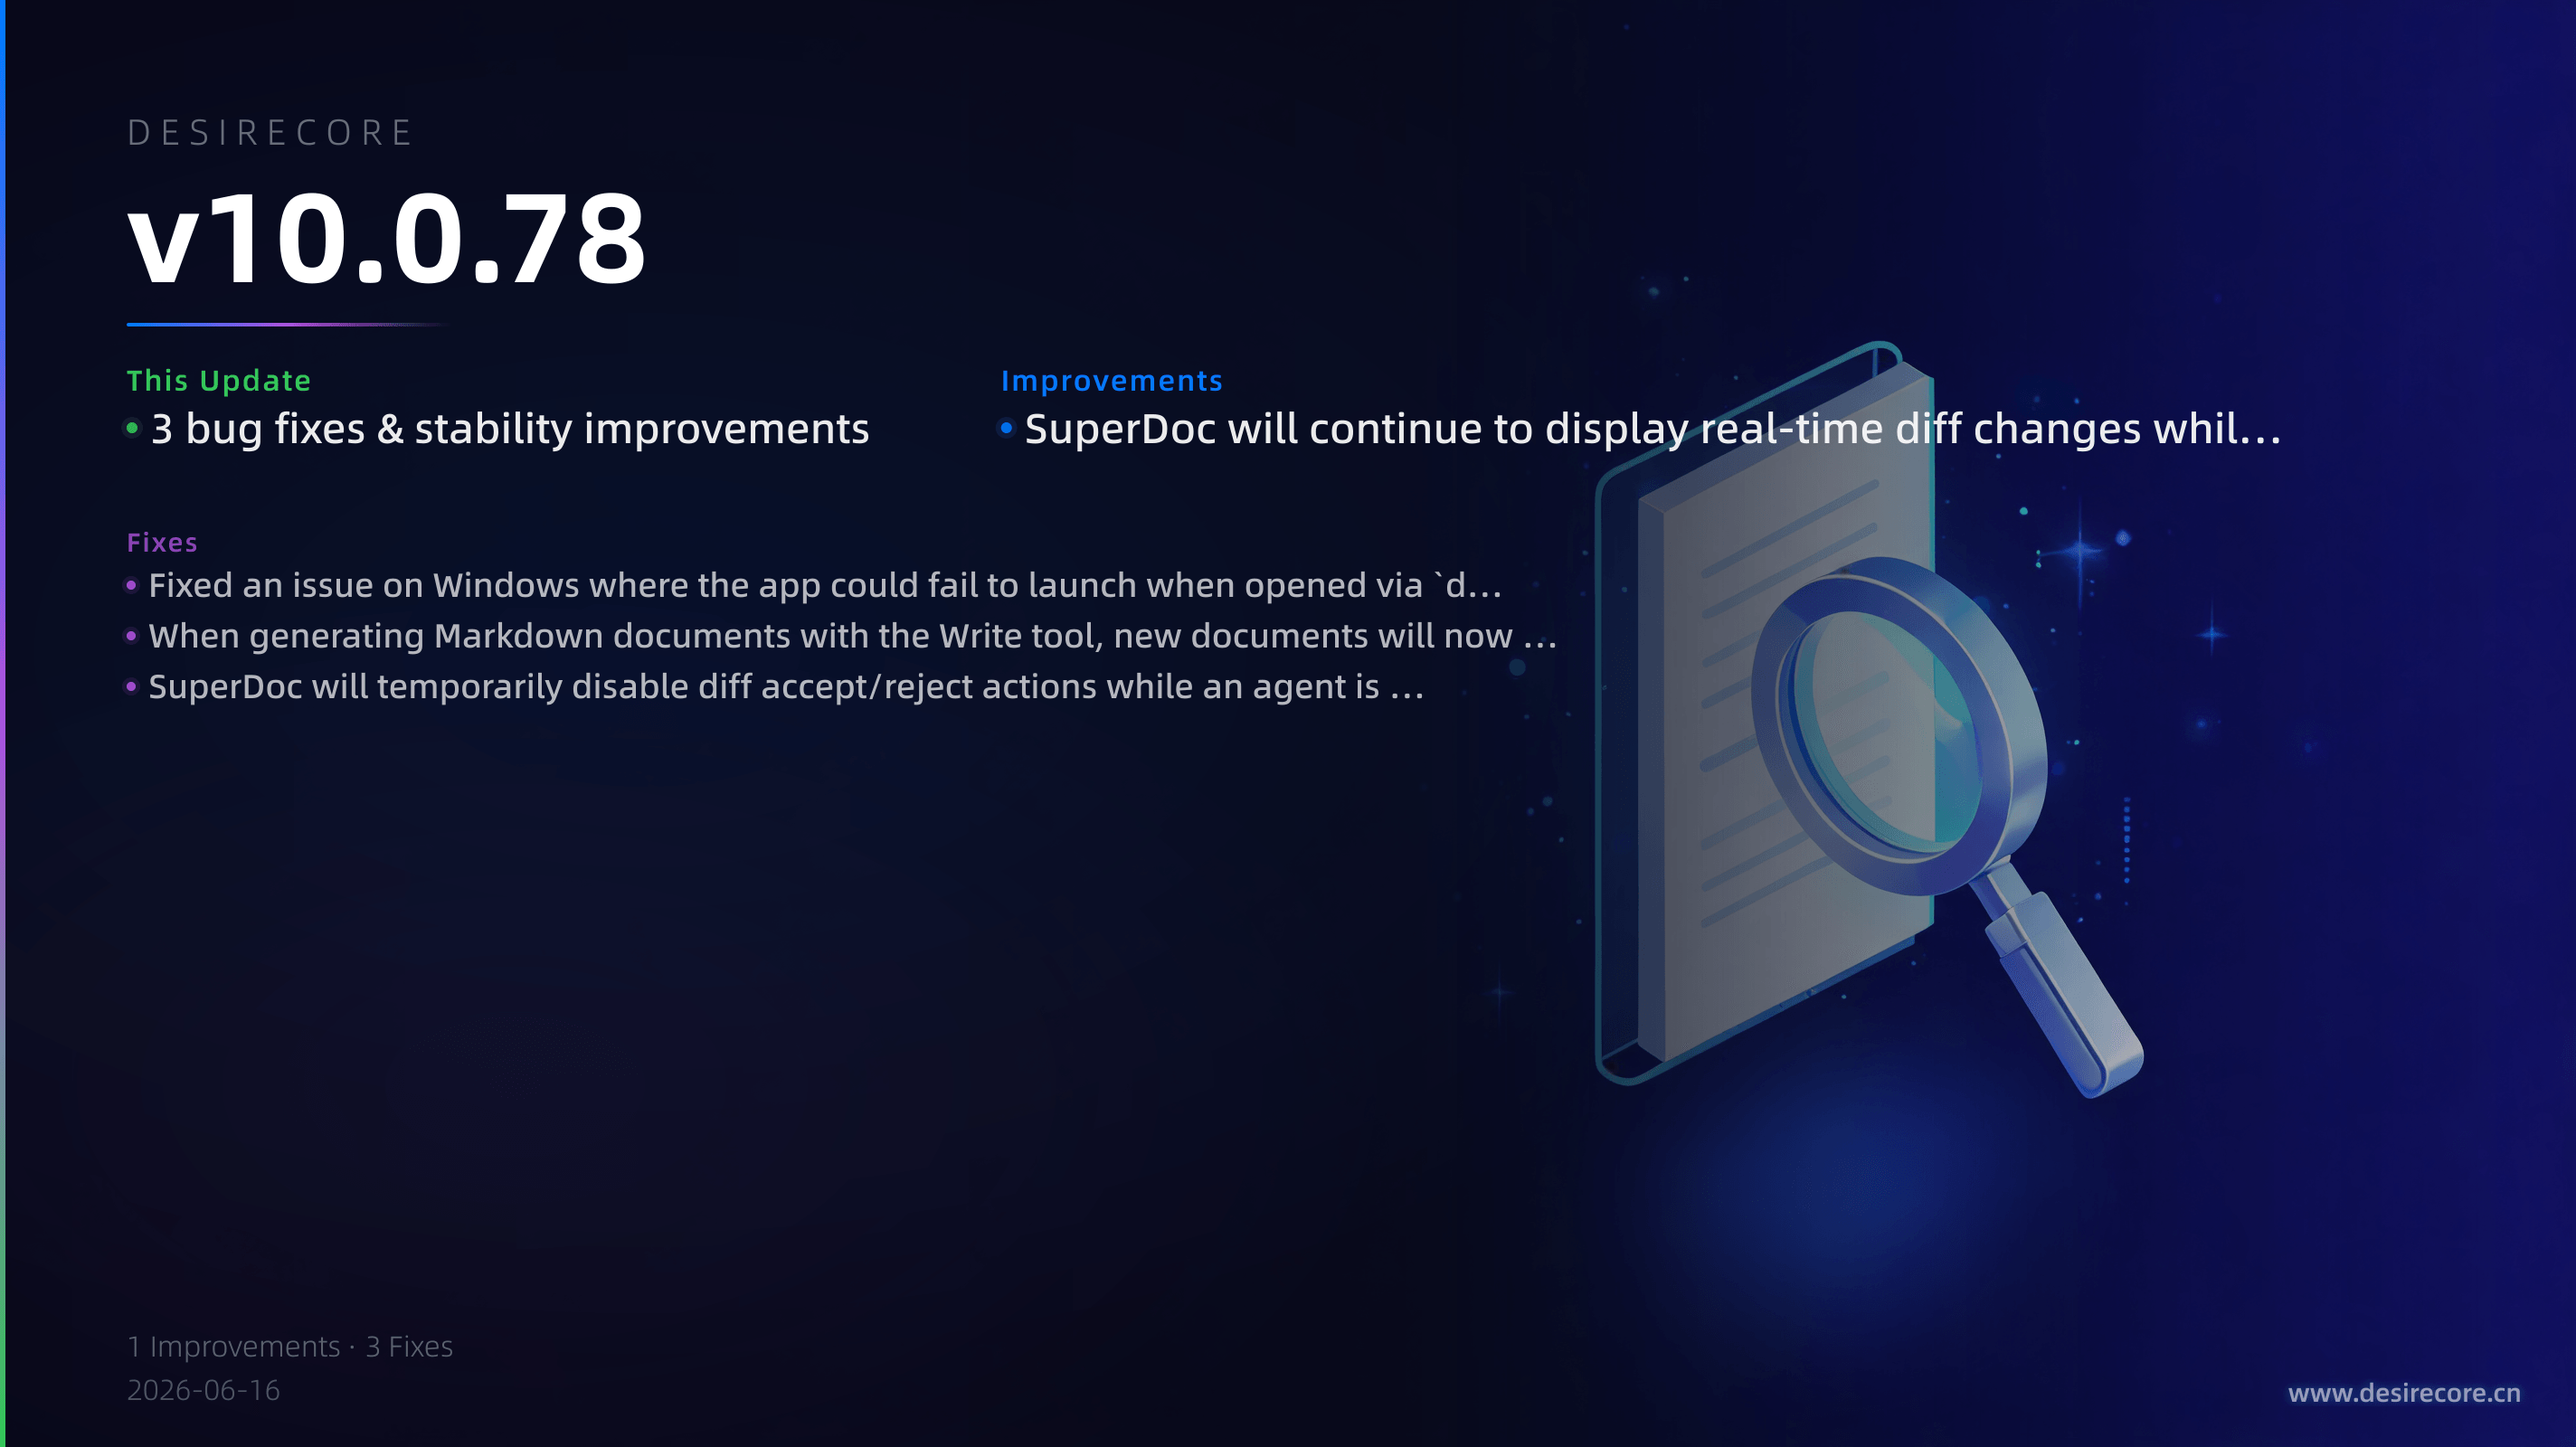
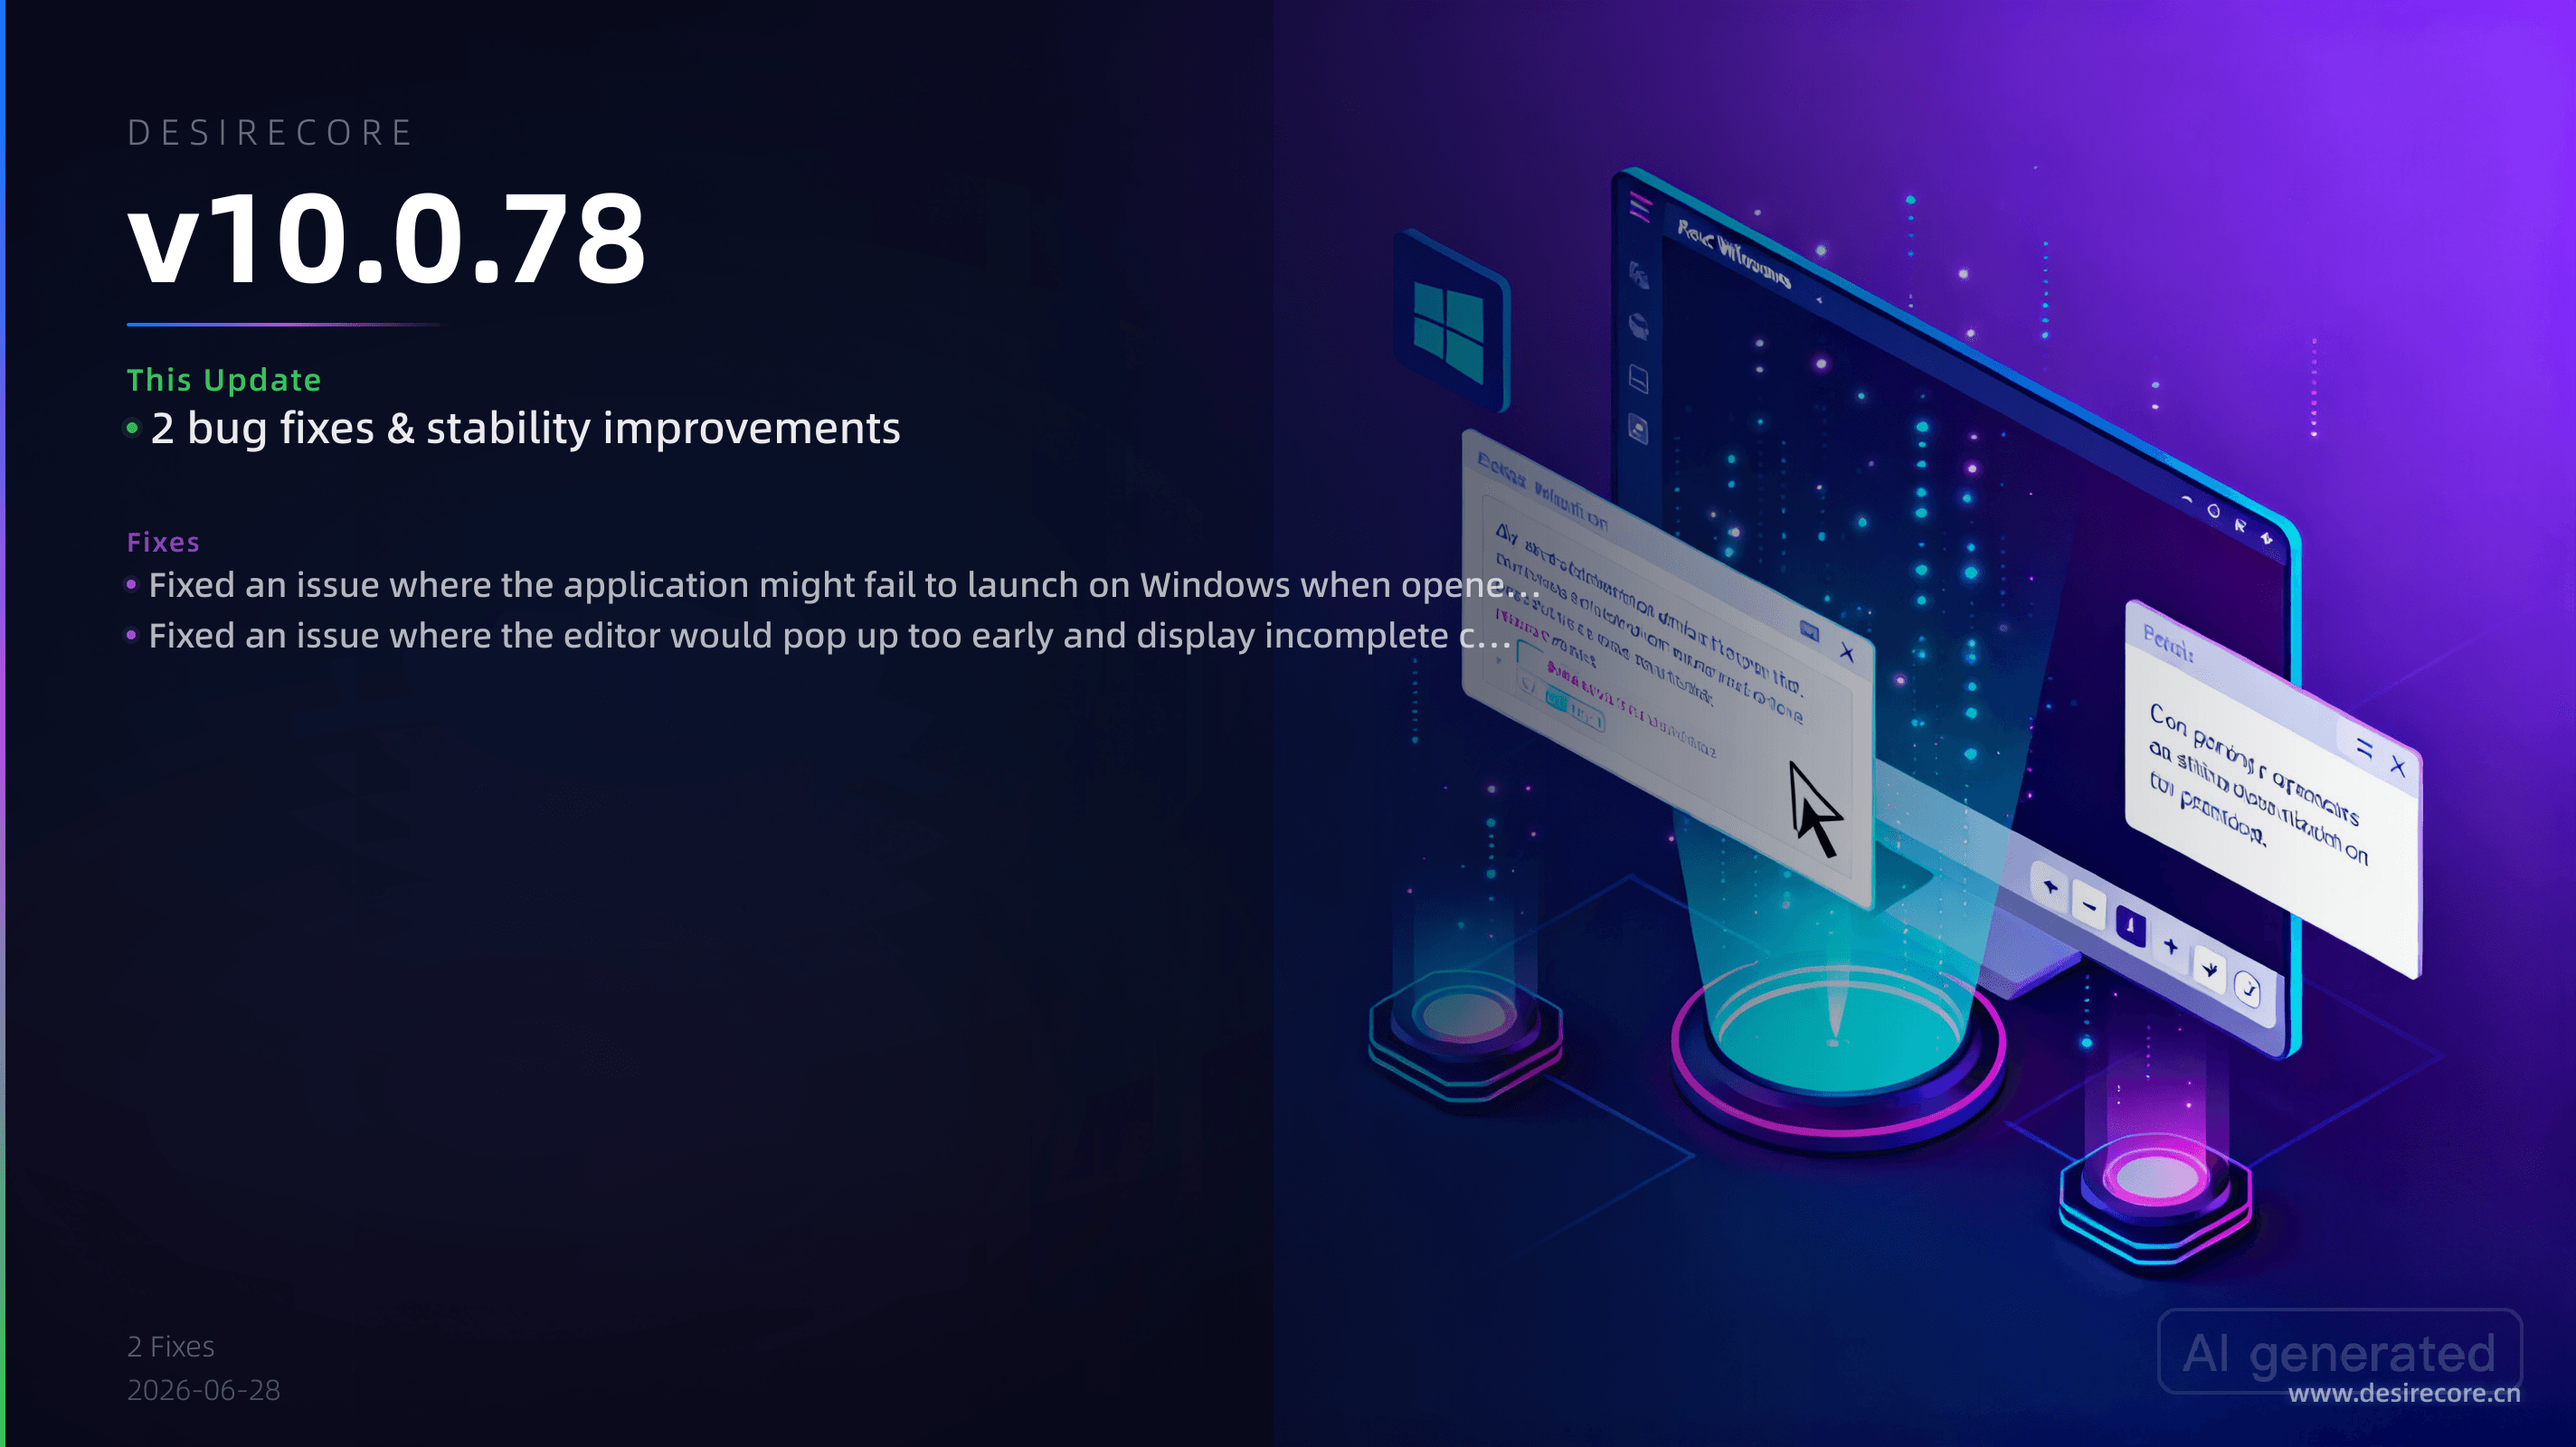
docs: update changelog for v10.0.78

diff --git a/i18n/en/docusaurus-plugin-content-docs/current/05-more/10-changelog/v10.0.78.md b/i18n/en/docusaurus-plugin-content-docs/current/05-more/10-changelog/v10.0.78.md
@@ -5,14 +5,10 @@ sidebar_position: 22
 
 # DesireCore v10.0.78
 
-**Release Date**: 2026-06-16
+**Release Date**: 2026-06-28
 
 ![v10.0.78 更新概览](/img/changelog/v10.0.78-en.png)
 
 ## Fixes
-- Fixed an issue on Windows where the app could fail to launch when opened via `dc://` deep links, desktop/Start menu shortcuts, or associated files, making app startup more reliable.
-- When generating Markdown documents with the Write tool, new documents will now open automatically only after the entire round of content has been written, avoiding the display of unfinished partial drafts.
-- SuperDoc will temporarily disable diff accept/reject actions while an agent is editing a document in streaming mode, preventing content from being written back too early and causing subsequent edits to become inconsistent.
-
-## Improvements
-- SuperDoc will continue to display real-time diff changes while a document is being generated in streaming mode, so you can clearly track content modifications even while waiting for generation to finish.
+- Fixed an issue where the application might fail to launch on Windows when opened via `dc://` protocol links, desktop shortcuts, or the Start menu.
+- Fixed an issue where the editor would pop up too early and display incomplete content while AI was writing a document. It now waits until the full reply is completed before opening automatically. Also fixed an issue where the accept/reject buttons in the document diff view could end editing prematurely and cause content corruption during AI generation. These buttons are now automatically hidden during streaming.

diff --git a/docs/05-more/10-changelog/v10.0.78.md b/docs/05-more/10-changelog/v10.0.78.md
@@ -5,14 +5,10 @@ sidebar_position: 22
 
 # DesireCore v10.0.78
 
-**发布日期**: 2026-06-16
+**发布日期**: 2026-06-28
 
 ![v10.0.78 更新概览](/img/changelog/v10.0.78.png)
 
 ## 修复
-- Windows 上通过 `dc://` 深链、桌面/开始菜单快捷方式或关联文件启动应用时，启动失败的问题已修复，应用打开更稳定。
-- 使用 Write 工具生成 Markdown 文档时，新文档会在整轮内容写完后再自动打开，避免先看到未完成的半成品。
-- SuperDoc 在智能体流式编辑文档期间将暂时禁用 diff 的接受/拒绝操作，避免提前写回内容导致后续编辑错乱。
-
-## 改进
-- SuperDoc 在文档流式生成过程中仍会持续展示实时 diff 变化，让你在等待生成完成时也能清楚看到内容修改轨迹。
+- 修复了 Windows 上通过 `dc://` 协议链接、桌面快捷方式或开始菜单打开应用时可能启动失败的问题。
+- 修复了 AI 写文档时编辑器过早弹出并显示半成品内容的问题，现在会等到整轮回复完成后再自动打开；同时修复了在 AI 生成过程中，文档差异对比的接受/拒绝按钮可能提前结束编辑并导致内容错乱的问题，流式期间这些按钮将自动隐藏。
